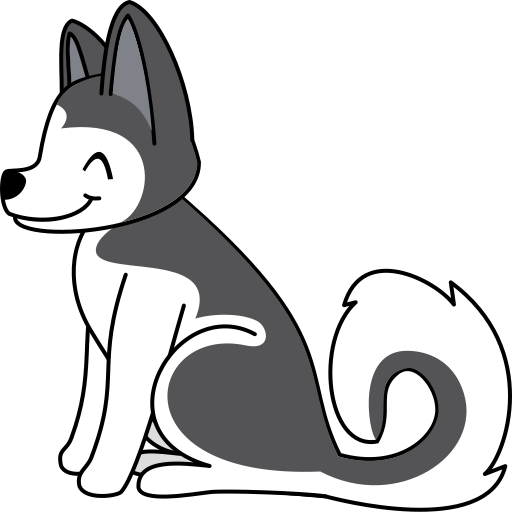
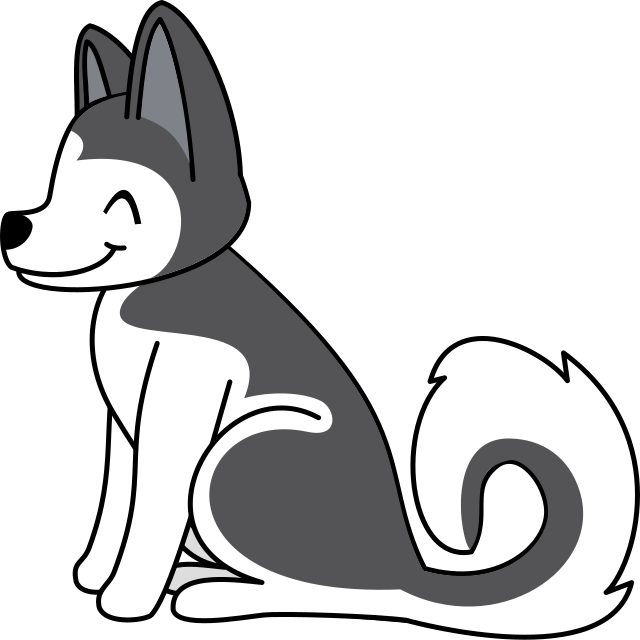
Adjust image in readme to look better on mobile

diff --git a/README.md b/README.md
@@ -19,7 +19,7 @@ Say hello to Isahc (pronounced like _Isaac_), the practical HTTP client that is 
 - Network socket configuration.
 - Uses the [http] crate as an interface for requests and responses.
 
-<img src="media/isahc.svg.png" width="256" align="right">
+<img src="media/isahc.svg.png" width="320" align="right">
 
 ## What is Isahc?
 
